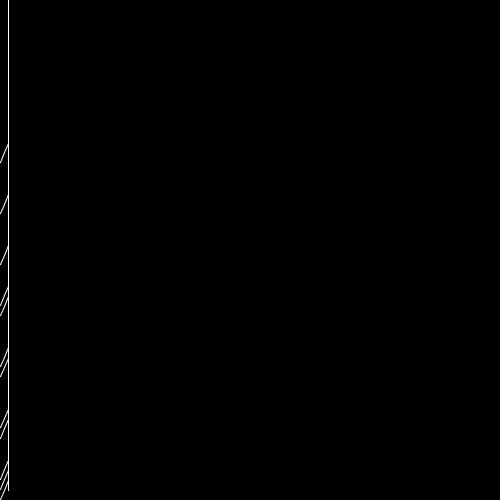
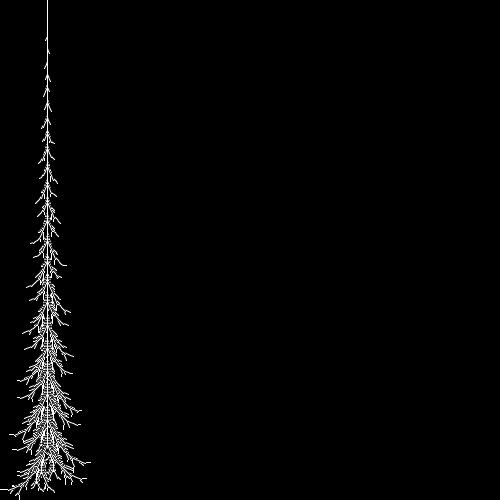
basic context-dependent step is now functional

diff --git a/lsystems/lsys.py b/lsystems/lsys.py
@@ -75,34 +75,74 @@ class Lsys:
     #     return successors
 
     def step_contextdep(self, predecessors):
+        # F1F0[F1F1]F0
         successors = ""
-        stack = []
         for i, strict_predecessor in enumerate(predecessors):
-            if strict_predecessor == "[":
-                stack.append(i)
-            print("Next predecessor")
-            if strict_predecessor not in self.ignore:
-                left = [i for i in predecessors[:i] if i not in self.ignore]
-                left_naive = left[-1] if len(left) > 0 else "NaN"
-                if left_naive == "[":
-                    left_context = left[-2]
-                if left_naive == "]":
-                    left_context = left[i - 1]
+            if strict_predecessor not in ("F[]"):  # NEED TO CHANGE THIS
+                print(f"Next predecessor {i}")
 
-                right = [i for i in predecessors[i + 1 :] if i not in self.ignore]
-                right_naive = right[0] if len(right) > 0 else "NaN"
-                # if right_naive == "[":
-                # right_context =
-
-                predecessor_context = (
-                    left_context + "<" + strict_predecessor + ">" + right_context
-                )
-                print(predecessor_context)
-                if predecessor_context in self.rules:
-                    # print(predecessor_context)
-                    successors += self.rules[predecessor_context]
+                if "*<" + strict_predecessor + ">*" in self.rules:
+                    successors += self.rules["*<" + strict_predecessor + ">*"]
                 else:
-                    successors += strict_predecessor
+                    left = [i for i in predecessors[:i] if i not in self.ignore]
+                    leftinv = left[::-1]
+                    left_naive = left[-1] if len(left) > 0 else "NaN"
+                    left_context = left_naive
+                    right = [i for i in predecessors[i + 1 :] if i not in self.ignore]
+                    right_naive = right[0] if len(right) > 0 else "NaN"
+                    right_context = right_naive
+
+                    if left_naive == "]":
+                        # print(left)
+                        # print(leftinv)
+                        count = 0
+                        for j, char in enumerate(leftinv):
+                            if char == "]":
+                                count += 1
+                            if char == "[":
+                                count -= 1
+                            if count == 0 and j > 0:
+                                # print(j, char)
+                                left_context = leftinv[j + 1]
+                                # print(left_context)
+                                break
+
+                    if left_naive == "[":
+                        count = 0
+                        # skip out the first element of leftinv - i.e. the bracket
+                        for j, char in enumerate(leftinv[1:]):
+                            if char == "]":
+                                count += 1
+                            if char == "[":
+                                count -= 1
+                            if count == 0 and char not in ["[", "]"]:
+                                left_context = leftinv[j + 1]
+                                break
+
+                    if right_naive == "[":
+                        count = 0
+                        for j, char in enumerate(right):
+                            if char == "[":
+                                count += 1
+                            if char == "]":
+                                count -= 1
+                            if count == 0 and j > 0:
+                                right_context = right[j + 1]
+                                break
+
+                    if right_naive == "]":
+                        right_context = "NaN"
+
+                    predecessor_context = (
+                        left_context + "<" + strict_predecessor + ">" + right_context
+                    )
+                    print(left_naive, strict_predecessor, right_naive)
+                    print(predecessor_context)
+                    if predecessor_context in self.rules:
+                        # print(predecessor_context)
+                        successors += self.rules[predecessor_context]
+                    else:
+                        successors += strict_predecessor
             else:
                 successors += strict_predecessor
         return successors
@@ -131,8 +171,8 @@ if __name__ == "__main__":  # pragma: no cover
         },
         "+-F",
     )
-    # print("F1F1F1")
-    # print(test_lsys.step_contextdep("F0F0F1"))
+    print("F1F0[F1F1]F0")
+    print(test_lsys.step_contextdep("F1F0[F1[F0F0]F1]F0"))
 
 
 def get_context(str):
@@ -181,6 +221,3 @@ def get_context(str):
             stack.pop(-1)
 
         print(i, right_naive, stack, right, char)
-
-
-get_context("100[11[101]]11")

diff --git a/lsystems/generator.py b/lsystems/generator.py
@@ -90,7 +90,7 @@ if __name__ == "__main__":
         },
         "+-F",
     )
-    test_gen = Generator(test_lsys, "F1F1F1", 22.5, 10)
+    test_gen = Generator(test_lsys, "F1F1F1", 22.5, 26)
     steps, history, stack = test_gen.generate_tortoise_contextdep()
     print(steps)
     draw_coords(history, 500)
